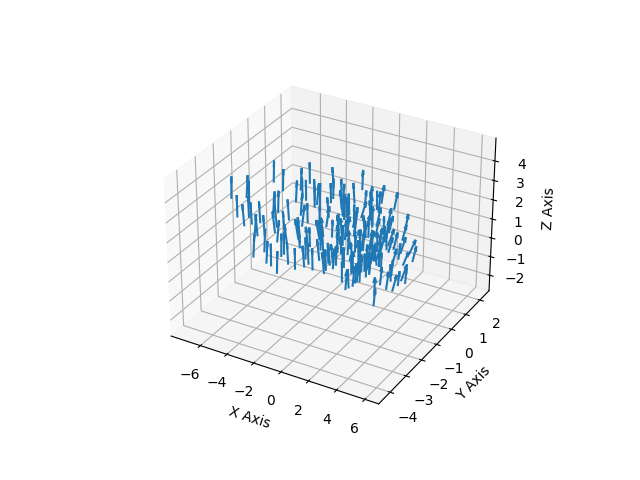
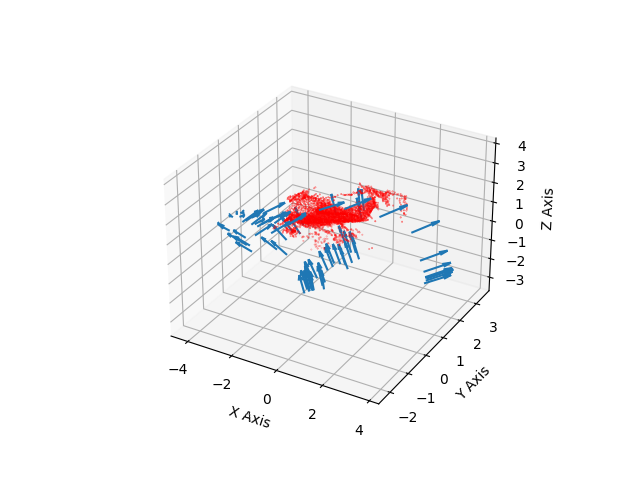
找回原本的渲染代码,进行比较

diff --git a/gaussian_renderer/__init__.py b/gaussian_renderer/__init__.py
@@ -9,15 +9,17 @@
 # For inquiries contact  george.drettakis@inria.fr
 #
 from typing import Tuple
-
+import matplotlib.pyplot as plt
 import torch
 
 from gaussian_renderer.project_gaussians import project_gaussians
 from gaussian_renderer.sh import spherical_harmonics
 from gaussian_renderer.rasterize import rasterize_gaussians
 
+from diff_gaussian_rasterization import GaussianRasterizationSettings, GaussianRasterizer
+
 import math
-from watersplatting import  GaussianRasterizer
+
 from scene.gaussian_model import GaussianModel
 from utils.sh_utils import eval_sh
 from time import time as get_time
@@ -40,31 +42,36 @@ def render(viewpoint_camera, pc : GaussianModel, pipe, bg_color : torch.Tensor, 
     
     means3D = pc.get_xyz#猜测pc是point cloud的意思
     if cam_type != "PanopticSports":
-        # tanfovx = math.tan(viewpoint_camera.FoVx * 0.5)
-        # tanfovy = math.tan(viewpoint_camera.FoVy * 0.5)
-        # raster_settings = GaussianRasterizationSettings(
-        #     image_height=int(viewpoint_camera.image_height),
-        #     image_width=int(viewpoint_camera.image_width),
-        #     tanfovx=tanfovx,
-        #     tanfovy=tanfovy,
-        #     bg=bg_color,
-        #     scale_modifier=scaling_modifier,
-        #     viewmatrix=viewpoint_camera.world_view_transform.cuda(),
-        #     projmatrix=viewpoint_camera.full_proj_transform.cuda(),
-        #     sh_degree=pc.active_sh_degree,
-        #     campos=viewpoint_camera.camera_center.cuda(),
-        #     prefiltered=False,
-        #     debug=pipe.debug
-        # )
+        tanfovx = math.tan(viewpoint_camera.FoVx * 0.5)
+        tanfovy = math.tan(viewpoint_camera.FoVy * 0.5)
+        raster_settings = GaussianRasterizationSettings(
+            image_height=int(viewpoint_camera.image_height),
+            image_width=int(viewpoint_camera.image_width),
+            tanfovx=tanfovx,
+            tanfovy=tanfovy,
+            bg=bg_color,
+            scale_modifier=scaling_modifier,
+            viewmatrix=viewpoint_camera.world_view_transform.cuda(),
+            projmatrix=viewpoint_camera.full_proj_transform.cuda(),
+            sh_degree=pc.active_sh_degree,
+            campos=viewpoint_camera.camera_center.cuda(),
+            prefiltered=False,
+            debug=pipe.debug
+        )
         time = torch.tensor(viewpoint_camera.time).to(means3D.device).repeat(means3D.shape[0],1)#重复时间张量。时间张量会被扩展成一个形状为 (Gaussian点的数量, 1) 的矩阵，这样每个 Gaussian 点都拥有相应的时间信息
     else:
         # raster_settings = viewpoint_camera['camera']#viewpoint_camera是一个复杂的量，好像与scene这个类有关。里面包含了batch_size个camera，每个camera都有自己的属性，
         time=torch.tensor(viewpoint_camera['time']).to(means3D.device).repeat(means3D.shape[0],1)
         
-
+    #好好检查R、T和watersplatting的对应!!!
 
     R = torch.from_numpy(viewpoint_camera.R).float().cuda()    #旋转矩阵，从世界坐标系转到相机坐标系
     T = torch.from_numpy(viewpoint_camera.T).float().cuda()    #平移矩阵，从世界坐标系转到相机坐标系
+
+    S = torch.diag(torch.tensor([1, -1, -1], device=R.device, dtype=R.dtype))  # 3x3 缩放矩阵    
+    R = S @ R
+    T = S @ T
+
     H = viewpoint_camera.image_height
     W = viewpoint_camera.image_width
     y = torch.linspace(0., H, H, device="cuda")
@@ -200,7 +207,7 @@ def render(viewpoint_camera, pc : GaussianModel, pipe, bg_color : torch.Tensor, 
     # print("end")
 
 
-    # rasterizer = GaussianRasterizer(raster_settings=raster_settings)
+    rasterizer = GaussianRasterizer(raster_settings=raster_settings)
     xys_grad_abs = torch.zeros_like(xys)
     # print("shs_final.shape:",shs_final.shape)
 
@@ -238,27 +245,41 @@ def render(viewpoint_camera, pc : GaussianModel, pipe, bg_color : torch.Tensor, 
     )  # type: ignore
 
 
-
-
-
+     
 
 
     # Rasterize visible Gaussians to image, obtain their radii (on screen). 
     # time3 = get_time()
-    # rendered_image, radii, depth , depths_tensor, xys_tensor, conic_tensor= rasterizer(#在PyTorch中，当一个nn.Module类的实例被当作函数调用时，实际上是在调用它的forward方法。
-    #     means3D = means3D_final,
-    #     means2D = means2D,
-    #     shs = shs_final,
-    #     colors_precomp = colors_precomp,
-    #     opacities = opacity,
-    #     scales = scales_final,
-    #     rotations = rotations_final,
-    #     cov3D_precomp = cov3D_precomp)
+    rendered_image4D, _, depth = rasterizer(#在PyTorch中，当一个nn.Module类的实例被当作函数调用时，实际上是在调用它的forward方法。
+        means3D = means3D_final,
+        means2D = None,
+        shs = shs_final,
+        colors_precomp = colors_precomp,
+        opacities = opacity,
+        scales = scales_final,
+        rotations = rotations_final,
+        cov3D_precomp = cov3D_precomp)
     # time4 = get_time()
     # print("rasterization:",time4-time3)
     # breakpoint()
     # Those Gaussians that were frustum culled or had a radius of 0 were not visible.
     # They will be excluded from value updates used in the splitting criteria.
+
+
+    image_vis1 = rendered_image.detach().cpu().numpy()
+    image_vis2 = rendered_image4D.detach().cpu().permute(1, 2, 0).numpy()
+    plt.figure(figsize=(10, 10))
+    plt.subplot(1, 2, 1)
+
+    plt.imshow(image_vis1)
+    plt.axis('off')  # 关闭坐标轴
+    plt.subplot(1, 2, 2)
+
+    plt.imshow(image_vis2)
+
+    plt.axis('off')
+    plt.show()
+
 
     rendered_image = rendered_image.permute(2,0,1)
     rgb_medium = rgb_medium.permute(2,0,1)

diff --git a/train.py b/train.py
@@ -8,7 +8,6 @@
 #
 # For inquiries contact  george.drettakis@inria.fr
 #
-import matplotlib.pyplot as plt
 import wandb
 
 import numpy as np
@@ -201,11 +200,7 @@ def scene_reconstruction(dataset, opt, hyper, pipe, testing_iterations, saving_i
             visibility_filter_list.append(visibility_filter.unsqueeze(0))
             viewspace_point_tensor_list.append(viewspace_point_tensor)
     
-            # image_vis = render_pkg["render_image"].detach().cpu().permute(1, 2, 0).numpy()
-            # plt.figure(figsize=(10, 10))
-            # plt.imshow(image_vis)
-            # plt.axis('off')
-            # plt.show()
+
     
 
         radii = torch.cat(radii_list,0).max(dim=0).values
@@ -467,7 +462,7 @@ if __name__ == "__main__":
     parser.add_argument('--debug_from', type=int, default=-1)
     parser.add_argument('--detect_anomaly', action='store_true', default=False)
     parser.add_argument("--test_iterations", nargs="+", type=int, default=[ i for i in range(1000, 60000, 250) ])
-    parser.add_argument("--save_iterations", nargs="+", type=int, default=[ 14000, 20000, 30_000, 45000, 60000])
+    parser.add_argument("--save_iterations", nargs="+", type=int, default=[ 100, 20000, 30_000, 45000, 60000])
     parser.add_argument("--quiet", action="store_true")
     parser.add_argument("--checkpoint_iterations", nargs="+", type=int, default=[])
     parser.add_argument("--start_checkpoint", type=str, default = None)

diff --git a/scene/hyper_loader.py b/scene/hyper_loader.py
@@ -93,14 +93,14 @@ class Load_hyper_data(Dataset):
         self.all_img_origin = self.all_img
         self.all_depth = [f'{datadir}/depth/{int(1/ratio)}x/{i}.npy' for i in self.all_img]
 
-        self.all_img = [f'{datadir}/rgb/{int(1/ratio)}x/{i}.png' for i in self.all_img]#根据缩放比例读入相应的图片
+        self.all_img = [f'{datadir}/rgb/{int(1/ratio)}x/{i}.jpg' for i in self.all_img]#根据缩放比例读入相应的图片   //修改图片类型
 
         self.h, self.w = self.all_cam_params[0].image_shape
         self.map = {}
         self.image_one = Image.open(self.all_img[0])
         self.image_one_torch = PILtoTorch(self.image_one,None).to(torch.float32)
         if os.path.exists(os.path.join(datadir,"covisible")):
-            self.image_mask = [f'{datadir}/covisible/{int(2)}x/val/{i}.png' for i in self.all_img_origin]
+            self.image_mask = [f'{datadir}/covisible/{int(2)}x/val/{i}.jpg' for i in self.all_img_origin]
         else:
             self.image_mask = None
         

diff --git a/scene/__init__.py b/scene/__init__.py
@@ -101,6 +101,7 @@ class Scene:
                                                     "iteration_" + str(self.loaded_iter),
                                                    ))
         else:
+            print("create gaussians from point cloud")
             self.gaussians.create_from_pcd(scene_info.point_cloud, self.cameras_extent, self.maxtime)#从点云来创建高斯模型
 
     def save(self, iteration, stage):
